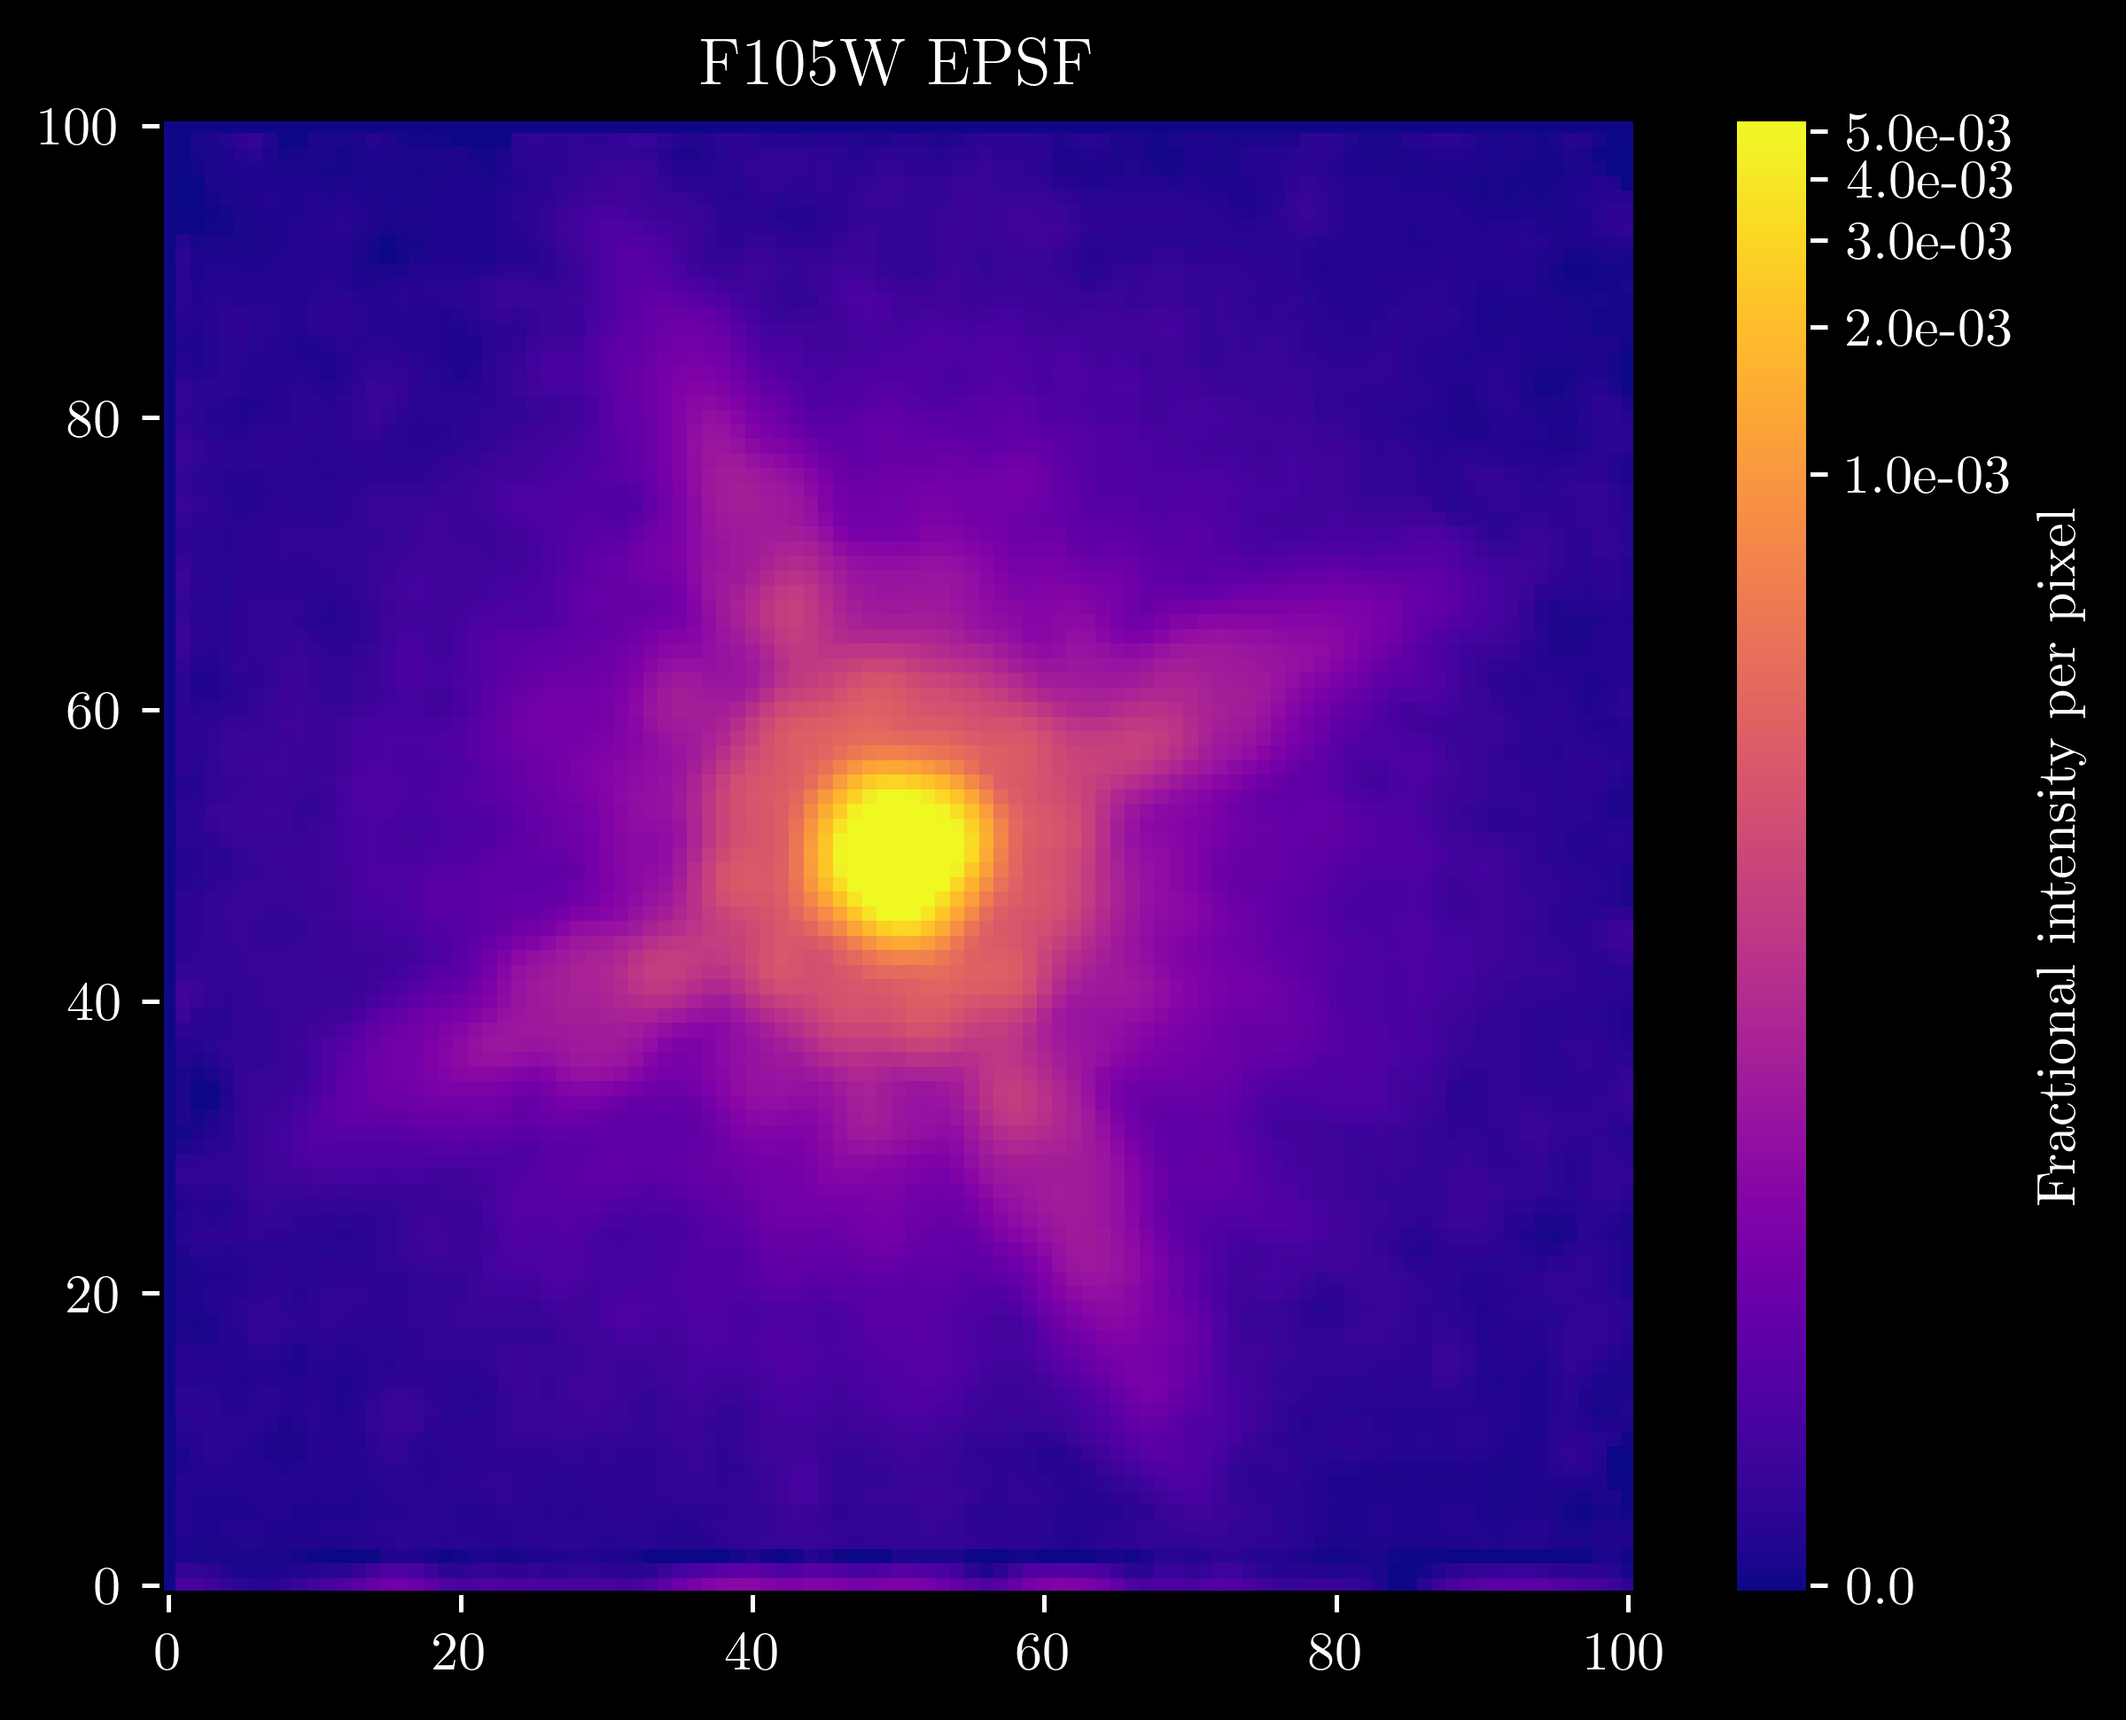
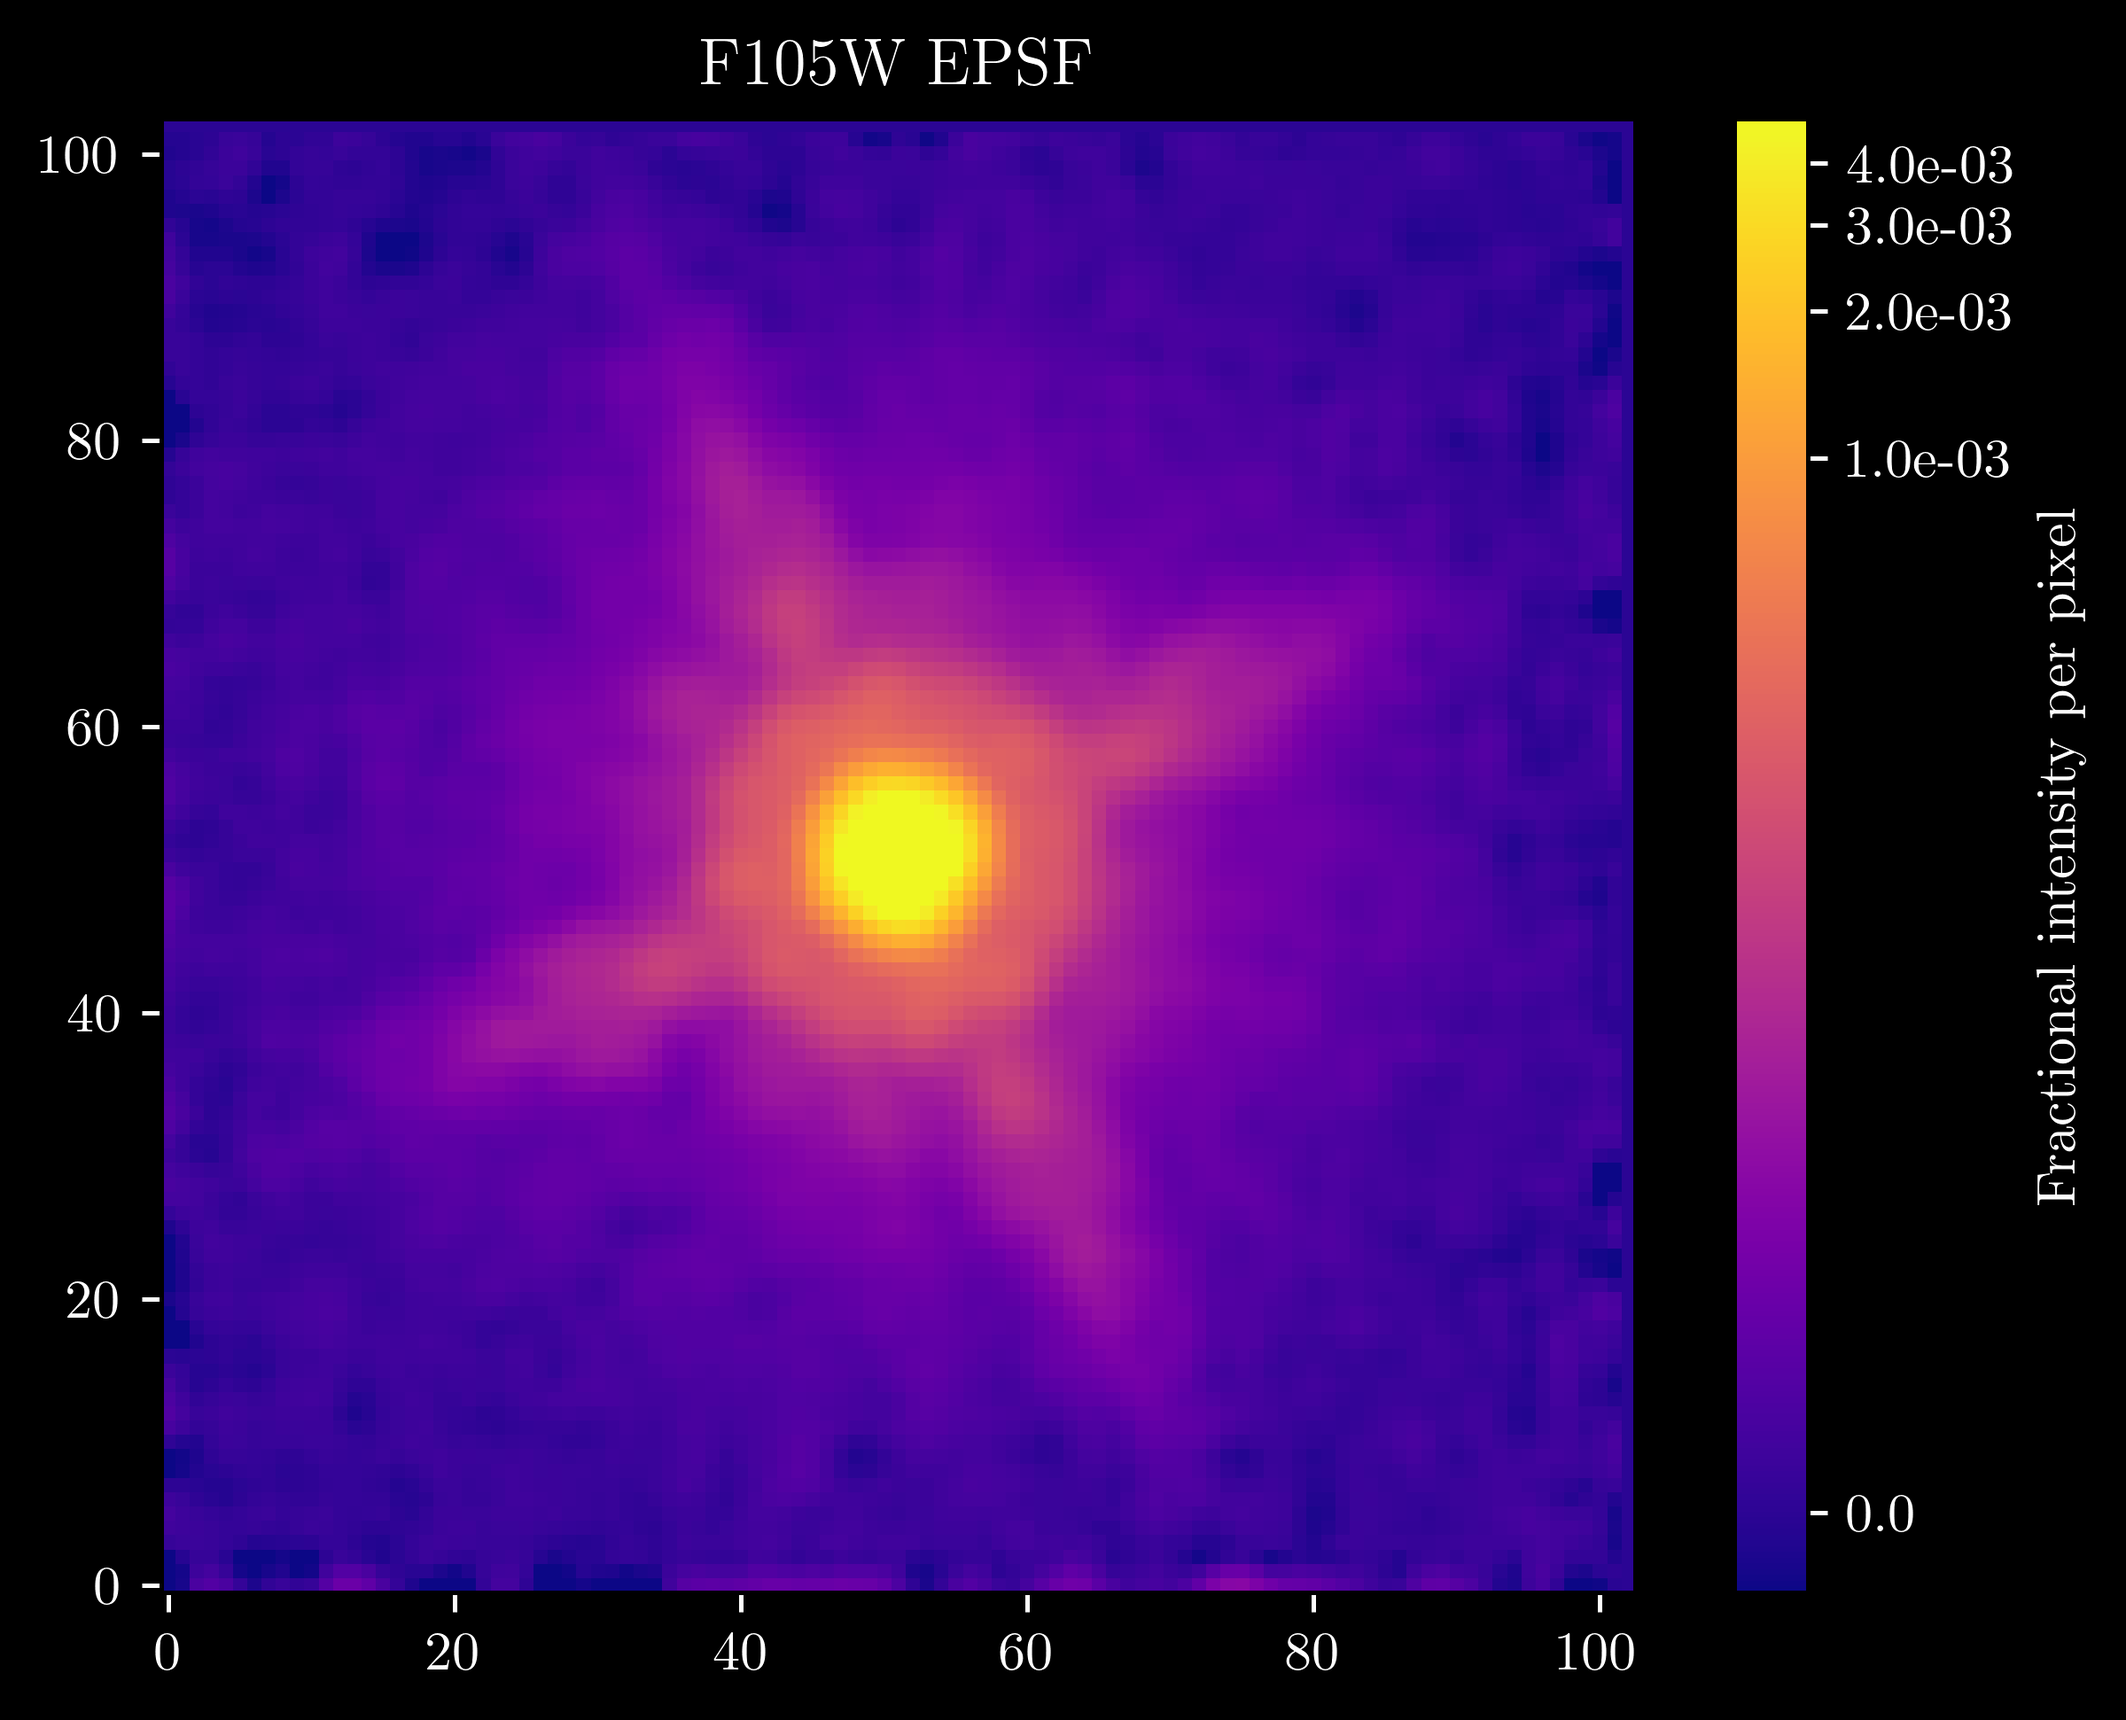
extract stars works with Andrea's cat 4.04" cutouts and my EPSF settings

diff --git a/extract_stars_incl_jwst.py b/extract_stars_incl_jwst.py
@@ -87,7 +87,7 @@ def star_cutouts(cat_length, RA, DEC, ID, simbad=False, plot=True, HST_only=Fals
                 if simbad:
                     cutout = Cutout2D(img.data, SkyCoord(ra, dec, unit=(u.hourangle, u.degree)), u.Quantity((4, 4), u.arcsec), wcs=WCS(img.header)) # important! use hourangle for ra
                 else:
-                    cutout = Cutout2D(img.data, SkyCoord(ra, dec, unit=(u.deg, u.deg)), u.Quantity((7, 7), u.arcsec), wcs=WCS(img.header))
+                    cutout = Cutout2D(img.data, SkyCoord(ra, dec, unit=(u.deg, u.deg)), u.Quantity((4.04, 4.04), u.arcsec), wcs=WCS(img.header))
             except NoOverlapError:
                 print(f'No overlap for {obj_id} in {filter_names[j]}')
                 continue
@@ -199,20 +199,21 @@ def build_psf(stars_per_filter, filter_names) -> None:
 def main():
     excluded_sources = [3, 11, 13, 16, 17, 21, 24, 27, 28, 29, 31, 32, 33, 34, 35, 36, 39, 42, 43, 46, 47] # index of sources to exclude
 
-    # Load the SIMBAD catalog
-    cat = np.genfromtxt(f_path / cat_folder / 'FRESCO_simbad_stars.txt', delimiter='\t', names=True, dtype=None, encoding='utf-8')
-    cat_sim = np.delete(cat, excluded_sources) # Remove the excluded sources
+    # # Load the SIMBAD catalog
+    # cat = np.genfromtxt(f_path / cat_folder / 'FRESCO_simbad_stars.txt', delimiter='\t', names=True, dtype=None, encoding='utf-8')
+    # cat_sim = np.delete(cat, excluded_sources) # Remove the excluded sources
     
-    spf, filters = star_cutouts(len(cat_sim), cat_sim['ra'], cat_sim['dec'], cat_sim['identifier'], simbad=True, plot=False, HST_only=True)
-    build_psf(spf, filters)
+    # spf, filters = star_cutouts(len(cat_sim), cat_sim['ra'], cat_sim['dec'], cat_sim['identifier'], simbad=True, plot=False, HST_only=True)
+    # build_psf(spf, filters)
 
     # Load the SE catalog
     # stars_from_f444w_SE()
     # star_cutouts(*stars_from_f444w_SE())
 
     # Andrea's v7 star catalog
-    # cat_v7 = np.genfromtxt(f_path / cat_folder / f'{cat_name}_imgv7.0_stars.cat', names=True, dtype=None, encoding='utf-8')
-    # spf, filters = star_cutouts(len(cat_v7), cat_v7['ra'], cat_v7['dec'], cat_v7['id'], simbad=False, plot=True, JWST_only=True)
+    cat_v7 = np.genfromtxt(f_path / cat_folder / f'{cat_name}_imgv7.0_stars.cat', names=True, dtype=None, encoding='utf-8')
+    spf, filters = star_cutouts(len(cat_v7), cat_v7['ra'], cat_v7['dec'], cat_v7['id'], simbad=False, plot=False, HST_only=True)
+    build_psf(spf, filters)
 
 if __name__ == '__main__':
     main()
